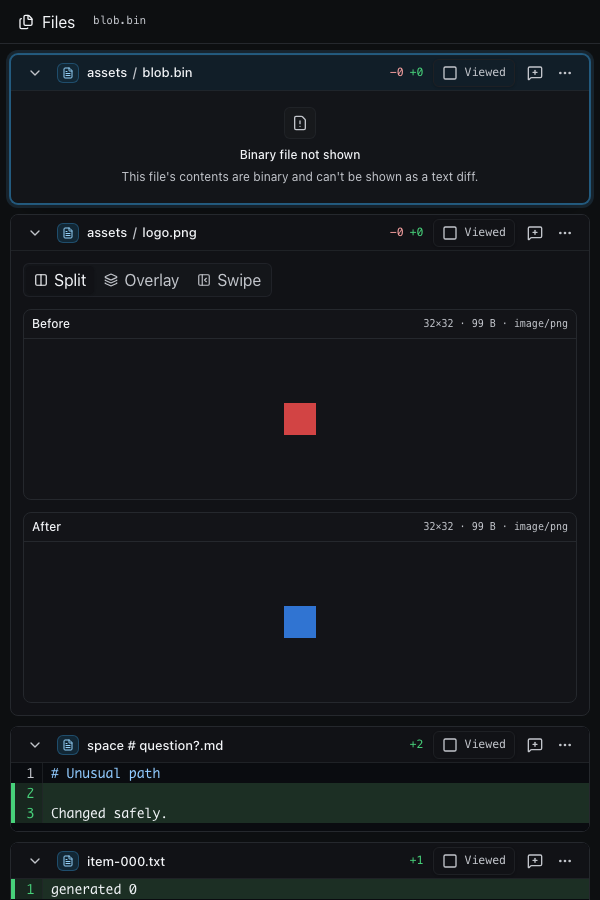
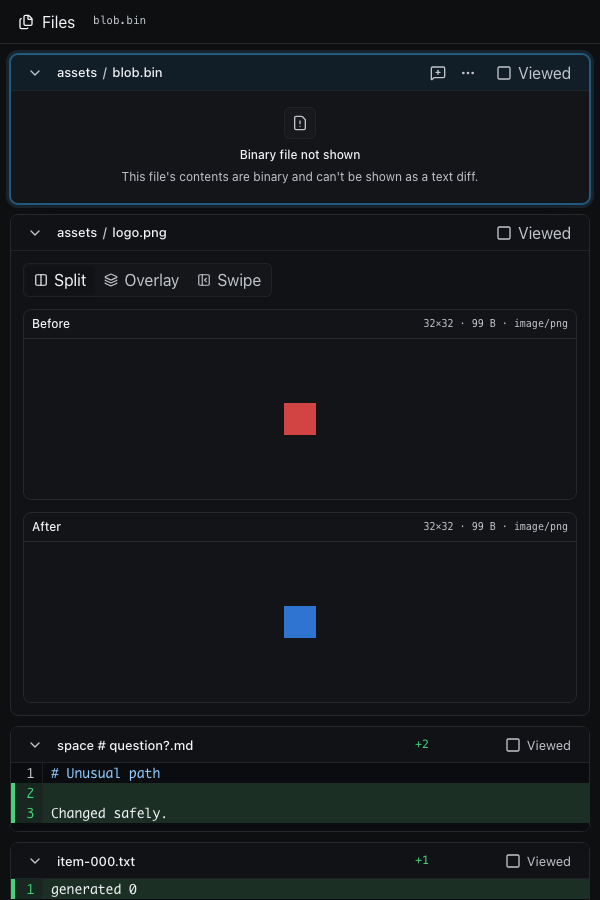
refactor(ui): budget file-header chrome by frequency of use
The file header renders once per file, so every element in it is multiplied by
the size of the diff. It was drawing ten.

Weight should track how often something is used. Across a 79-file review you
read the path and the counts constantly and toggle viewed about 79 times; you
copy a path, open an editor, or revert a hunk a handful of times in total. Only
the first group earns permanent space.

- The note button and overflow menu keep their layout space but stay
  transparent until the row is hovered, focused, or selected, so no row shifts
  when they appear. Revealed on :focus-within so a focused control is never
  invisible, on coarse pointers that have no hover, and while the row's own menu
  is open, since a portalled menu sits outside the header it belongs to.
- Removed the file-type badge. It drew the same glyph for every file and
  repeated an answer the path already gives.
- Zero counts are no longer drawn; binary and mode-only changes showed "-0 +0".
- Viewed keeps its label and a fixed rightmost position, and drops the resting
  border that a bordered pill would repeat down the whole list. Colour carries
  the checked state.

Elements drawn per header at rest: 10 -> 4.

Visual baselines regenerated with --update-snapshots=all again; at
maxDiffPixelRatio 0.03 they passed against the previous UI.

diff --git a/src/client/components/diff/CustomFileHeader.tsx b/src/client/components/diff/CustomFileHeader.tsx
@@ -1,6 +1,6 @@
 import { useLayoutEffect, useMemo, useRef, useState, type ReactNode } from "react";
 import type { FileDiffMetadata } from "@pierre/diffs/react";
-import { CheckSquare2, ChevronRight, FileText, Square } from "lucide-react";
+import { CheckSquare2, ChevronRight, Square } from "lucide-react";
 import { cn } from "../../lib/cn.js";
 import { Badge } from "../ui/badge.js";
 import { Button } from "../ui/button.js";
@@ -58,7 +58,6 @@ export function CustomFileHeader({
             )}
           />
         </Button>
-        <FileIcon />
         <PathLabel path={fileDiff.name} />
         {hasMergeConflicts ? (
           <Badge variant="warning" className="shrink-0 text-[10px] uppercase">
@@ -66,19 +65,26 @@ export function CustomFileHeader({
           </Badge>
         ) : null}
       </div>
-      <div className="flex shrink-0 items-center gap-1.5 font-mono text-[11.5px] leading-none tabular-nums">
-        {counts.deletions > 0 || counts.additions === 0 ? (
-          <span className="text-diff-deleted">-{counts.deletions}</span>
-        ) : null}
-        {counts.additions > 0 || counts.deletions === 0 ? (
-          <span className="text-diff-added">+{counts.additions}</span>
+      <div className="flex shrink-0 items-center gap-1">
+        <span className="flex items-center gap-1.5 font-mono text-[11.5px] leading-none tabular-nums">
+          {counts.deletions > 0 ? (
+            <span className="text-diff-deleted">-{counts.deletions}</span>
+          ) : null}
+          {counts.additions > 0 ? (
+            <span className="text-diff-added">+{counts.additions}</span>
+          ) : null}
+        </span>
+        {/* Occasional actions hold their space but stay invisible until the row
+            is hovered, focused, or selected, so 79 file headers do not each
+            render a permanent cluster of icons. */}
+        {actions != null ? (
+          <div className="app-file-actions flex items-center">{actions}</div>
         ) : null}
         <ViewedButton
           filePath={fileDiff.name}
           viewed={viewed}
           onClick={() => onViewedChange(!viewed)}
         />
-        {actions}
       </div>
     </div>
   );
@@ -256,18 +262,12 @@ function PathLabel({ path }: { path: string }) {
   );
 }
 
-function FileIcon() {
-  return (
-    <Badge
-      aria-hidden="true"
-      variant="outline"
-      className="h-5 shrink-0 border-info-border/75 bg-info-muted px-1 text-info-foreground"
-    >
-      <FileText className="size-3" />
-    </Badge>
-  );
-}
-
+/**
+ * The review loop's primary control, so it keeps its text label and a fixed
+ * rightmost position that never shifts as sibling controls appear. It drops the
+ * resting border a bordered pill would repeat down the whole file list; colour
+ * carries the checked state instead.
+ */
 function ViewedButton({
   filePath,
   onClick,
@@ -279,16 +279,16 @@ function ViewedButton({
 }) {
   return (
     <Button
-      variant={viewed ? "secondary" : "outline"}
+      variant="ghost"
       size="sm"
       aria-label={viewed ? `Mark ${filePath} unviewed` : `Mark ${filePath} viewed`}
       aria-pressed={viewed}
       onClick={onClick}
       className={cn(
-        "app-viewed-button ml-1 h-7 gap-1.5 px-2 font-sans text-[11.5px] leading-none",
+        "app-viewed-button ml-0.5 h-7 gap-1.5 px-2 font-sans text-[11.5px] leading-none",
         viewed
-          ? "border-info-border/80 bg-info-muted text-info-foreground hover:bg-info-muted/80"
-          : "bg-transparent text-muted-foreground hover:bg-accent hover:text-foreground",
+          ? "bg-info-muted text-info-foreground hover:bg-info-muted/80"
+          : "text-muted-foreground hover:bg-accent hover:text-foreground",
       )}
     >
       <ViewedIcon checked={viewed} />

diff --git a/src/client/styles.css b/src/client/styles.css
@@ -686,6 +686,36 @@ kbd {
   unicode-bidi: isolate;
 }
 
+/* Per-file actions are used a handful of times across a whole review, while the
+   header they sit in repeats once per file. They keep their layout space so
+   nothing shifts, but stay invisible until the row shows intent. */
+.app-file-actions {
+  opacity: 0;
+  transition: opacity 120ms ease;
+}
+
+.app-file-header:hover .app-file-actions,
+.app-file-header:focus-within .app-file-actions,
+.app-file-card[data-selected="true"] .app-file-actions,
+/* A portalled menu is outside the header, so hovering it would otherwise fade
+   its own trigger back out. */
+  .app-file-actions:has([aria-expanded="true"]) {
+  opacity: 1;
+}
+
+/* Touch has no hover state to reveal with. */
+@media (hover: none) {
+  .app-file-actions {
+    opacity: 1;
+  }
+}
+
+@media (prefers-reduced-motion: reduce) {
+  .app-file-actions {
+    transition: none;
+  }
+}
+
 .app-viewed-button {
   position: relative;
 }

diff --git a/docs/PR_VISUAL_COMPARISON.md b/docs/PR_VISUAL_COMPARISON.md
@@ -19,16 +19,26 @@ headers carried six controls including a `File operations` disclosure that expan
 header row, and the sidebar footer could not fit its four control groups, so the navigator wrapped
 to a second row and the filter button truncated to `Filter r…`.
 
-The third column keeps every capability and moves the per-file utilities behind one overflow menu,
-merges the navigator into a single segmented bar, and unifies the tool row on one size and radius.
-The shorter footer also returns two rows of file tree to the sidebar.
+The third column keeps every capability and reallocates the space by one rule: **persistent visual
+weight should be proportional to how often something is used.** Across a 79-file review you read
+the path and the counts constantly and toggle viewed roughly 79 times; you copy a path, open an
+editor, or revert a hunk a handful of times in total.
+
+So the header keeps the path, the counts, and `Viewed` — and nothing else at rest. The note button
+and overflow menu hold their layout space but stay transparent until the row is hovered, focused,
+or selected, which means no row ever shifts when they appear. The decorative file-type badge is
+gone: it rendered the same glyph for every file and repeated an answer the path already gives. Zero
+line counts (`-0 +0` on binary and mode-only changes) are no longer drawn.
 
 | Original (`main`) | This PR (`c68f316`) | Now |
 | --- | --- | --- |
 | ![Workspace on main](screenshots/compare/workspace-1-original.png) | ![Workspace as first written](screenshots/compare/workspace-2-codex.png) | ![Workspace after the interface pass](screenshots/compare/workspace-3-improved.png) |
 
-Per-file header controls, left to right: `Viewed` + `Actions` disclosure → `Viewed` + four icon
-buttons + `File operations` disclosure → `Viewed` + note button + overflow menu.
+Elements drawn per file header at rest: 8 → 10 → 4.
+
+The sidebar footer changed on the same principle: the navigator is one segmented bar rather than
+four wrapping groups, and the tool row is unified on one size and radius. The shorter footer
+returns two rows of file tree to the sidebar.
 
 ## Command palette — 1440 × 900
 
